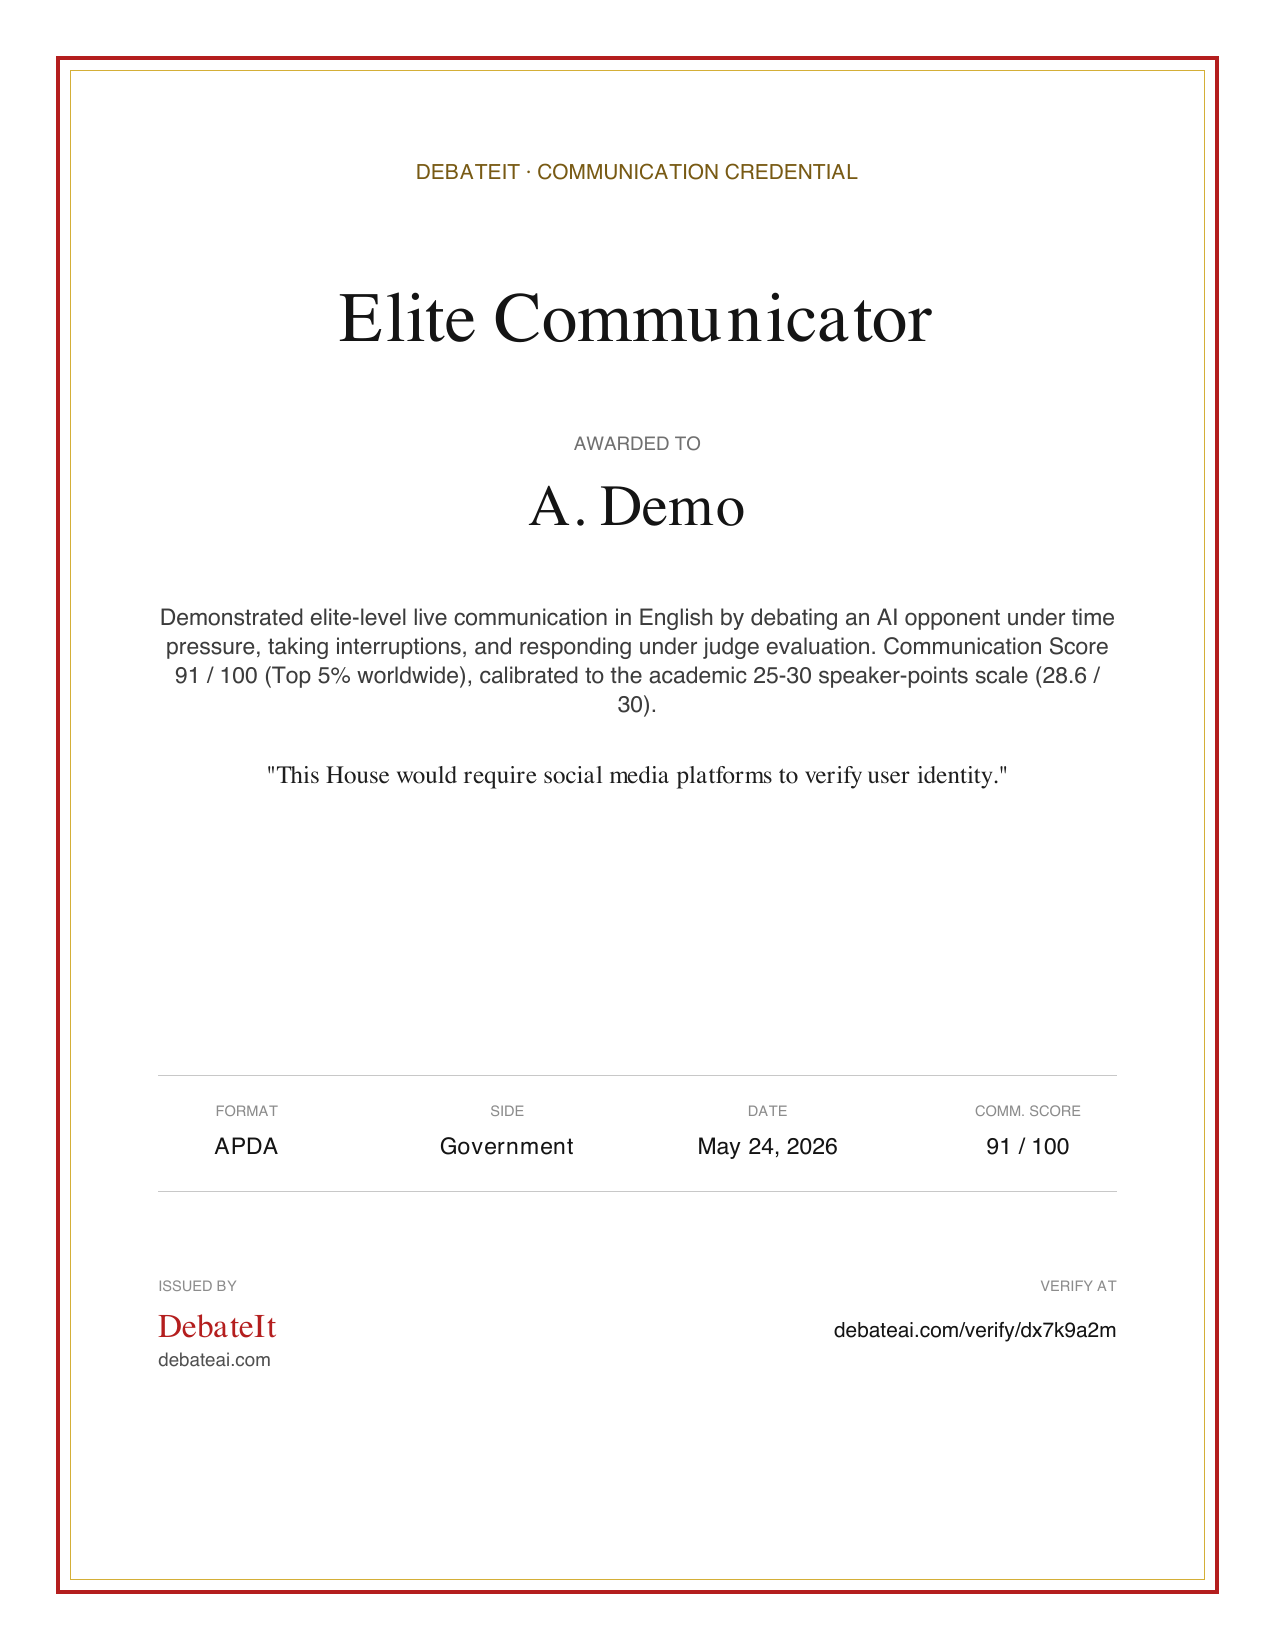
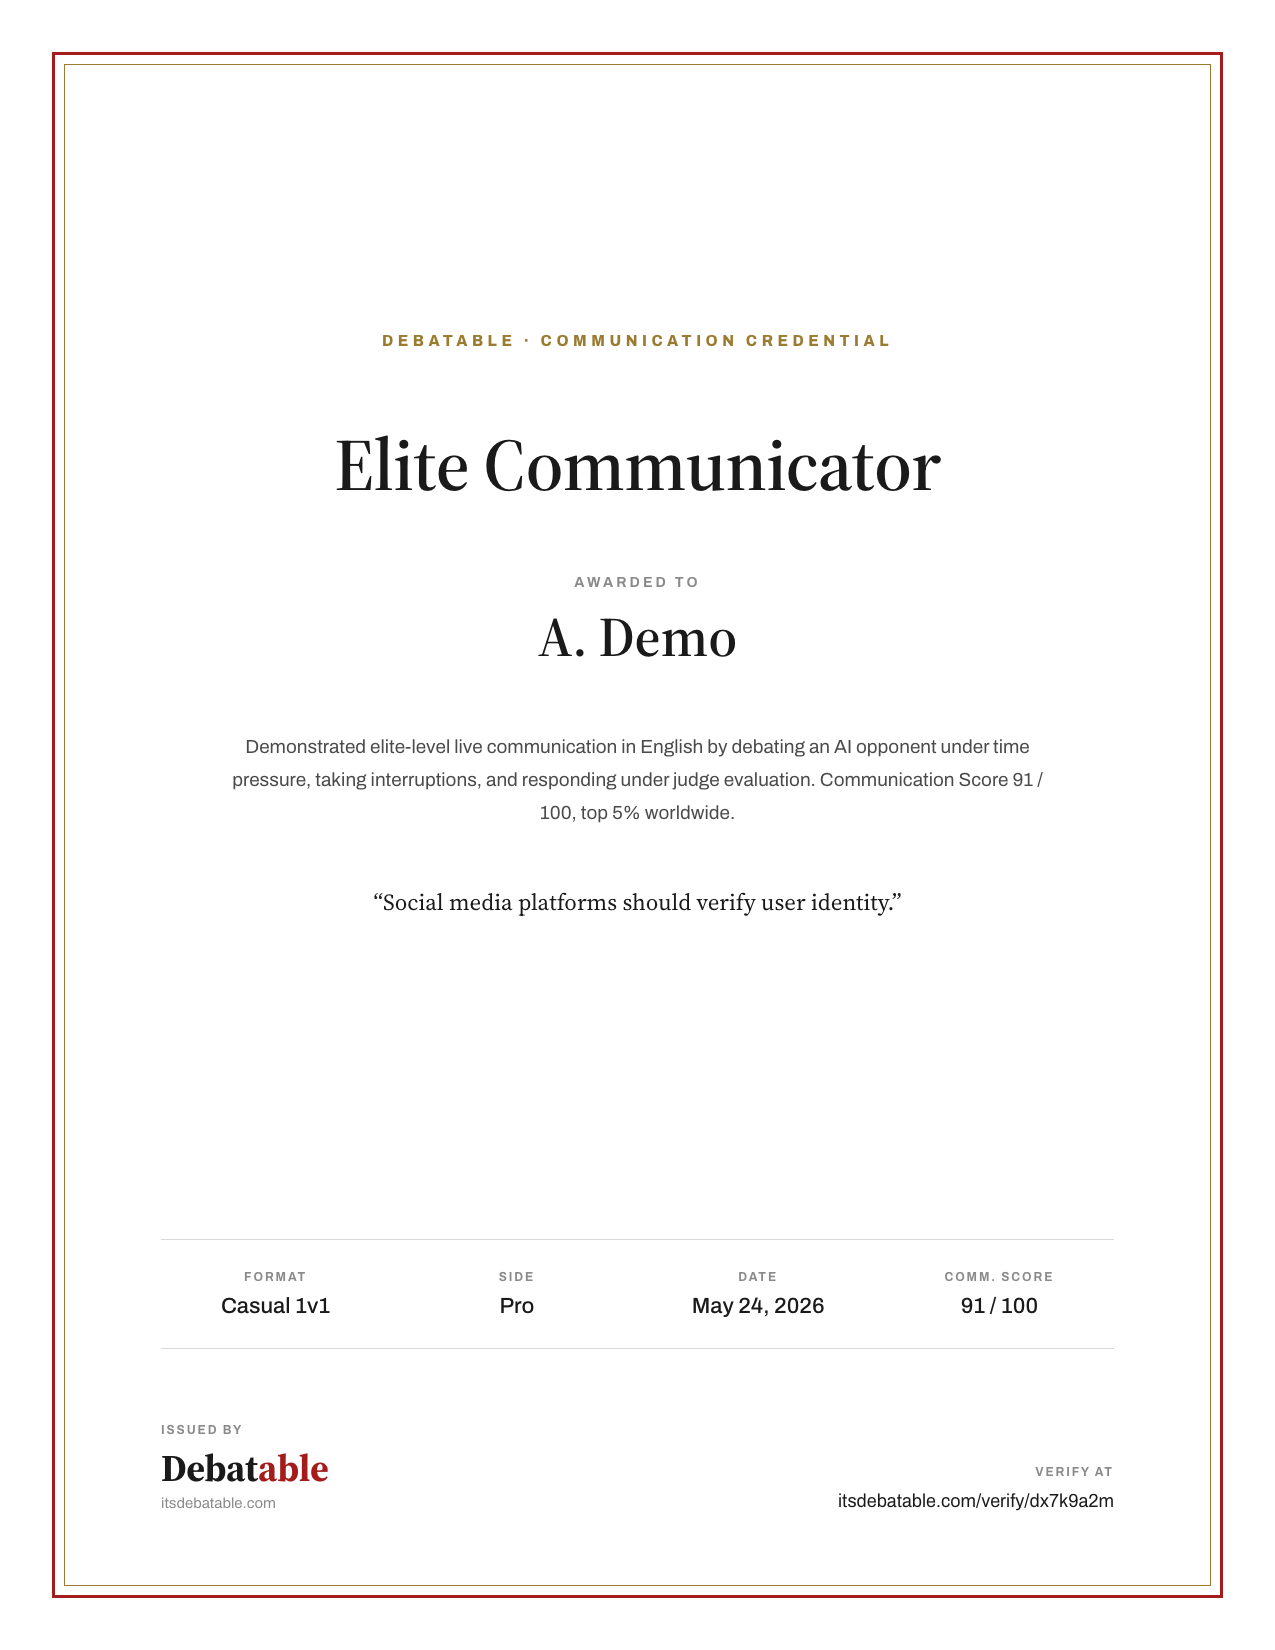
Regenerate the /credentials sample from source
The sample PNG on /credentials had gone stale five ways at once, on the one
public surface whose job is to look like proof: a retired brand in the
eyebrow, a retired brand and a 301'd domain as the issuer, a verify URL on
that same domain, a speaker-points scale retired 2026-08-18, and a
competitive format name that is off every public surface since 2026-08-27.

A flat PNG cannot be caught by a grep, a price guard, or a brand sweep,
which is exactly why it survived all five changes. The sample is code now,
so the next sweep finds these strings and a copy change shows in the diff.

The live cert pipeline (create-cert, verify) was checked and is already
correct on all five; this was a marketing asset only.

diff --git a/app/sw.js b/app/sw.js
@@ -6,7 +6,7 @@
 
 
 
-const CACHE_NAME = 'debateos-v3181';
+const CACHE_NAME = 'debateos-v3182';
 
 
 

diff --git a/sw.js b/sw.js
@@ -6,7 +6,7 @@
 
 
 
-const CACHE_NAME = 'debateos-v3181';
+const CACHE_NAME = 'debateos-v3182';
 
 
 
